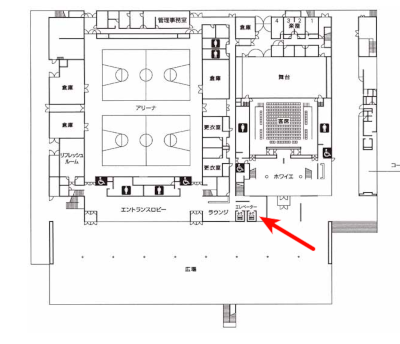
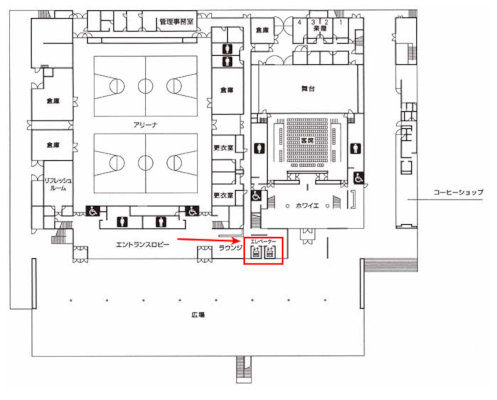
Update map+list.

Changed region(s): [[0.0, 0.0, 1.0, 0.9593], [0.45, 0.7558, 0.51, 0.7849], [0.39, 0.7558, 0.42, 0.814]]

diff --git a/events/tmmf-2020.md b/events/tmmf-2020.md
@@ -18,7 +18,8 @@ Self Made Keyboards in Japanが出展します。
 
 Self Made Keyboards in Japanのブースは3F 小会議室2です。
 
-1Fからエレベータで上がり、右手側になります。
+1Fからエレベータで3Fに上がり、右手側に進む。
+もしくは、エレベータ付近の階段で3Fに登り、右手側一番奥の部屋です。
 
 ![1F](./1F.png)
 ![3F](./3F.png)
@@ -31,4 +32,5 @@ Self Made Keyboards in Japanのブースは3F 小会議室2です。
 |:--|:--|:--|
 |kymok|Sugi 6x|DCC制作でも不自由しない60%キーボードです．|
 ||キースイッチテスター|プリンタ付き|
-
+|ikeji|DMOTE|3Dプリンタで作られた3D形状のキーボードです。|
+|ikeji|Double|2つのトラックボールを搭載した分割キーボードです。|
